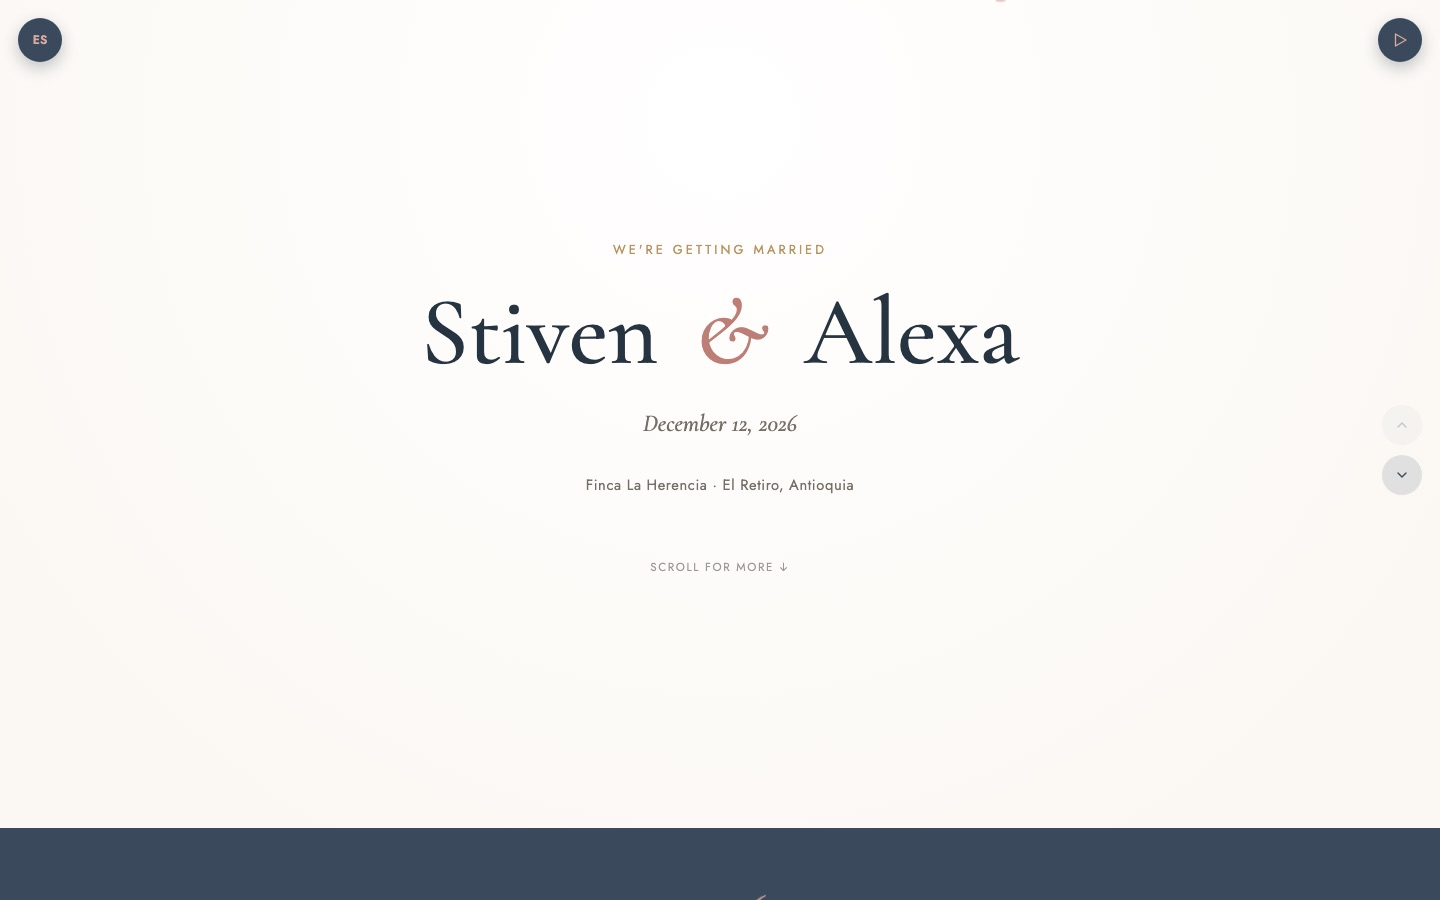
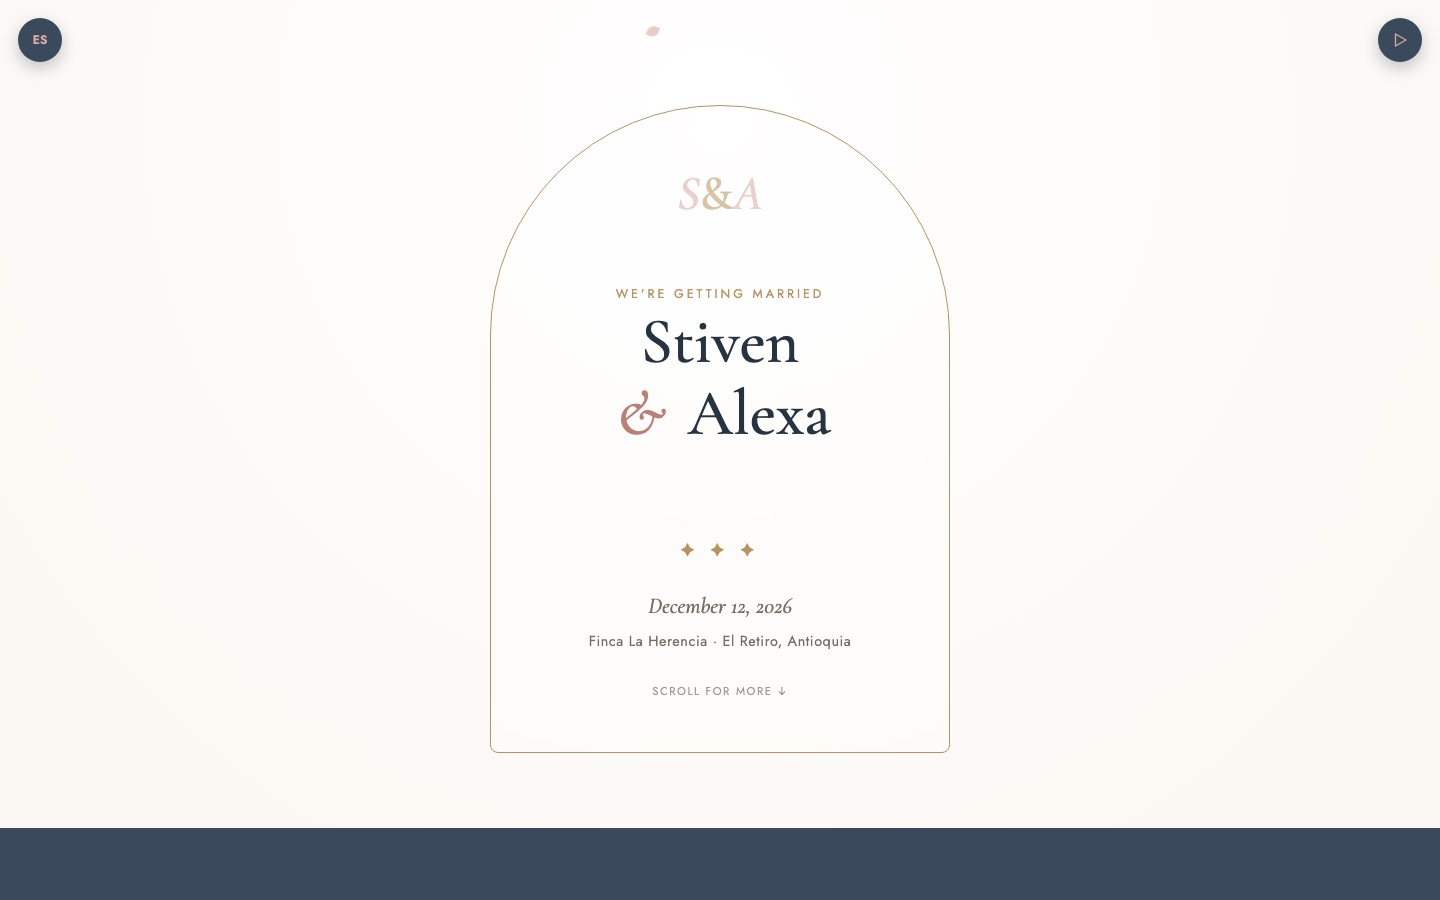
Update baby shower thumbnail to animated GIF, refresh wedding screenshot

diff --git a/web-dev.html b/web-dev.html
@@ -204,7 +204,7 @@
 
                     <!-- Emilia Baby Shower -->
                     <div class="project-card">
-                        <img src="images/projects/babyshower-sara-nicolas.jpg" alt="Emilia baby shower invitation homepage" class="project-thumb" loading="lazy">
+                        <img src="images/projects/babyshower-sara-nicolas.gif" alt="Emilia baby shower invitation, envelope opening animation" class="project-thumb" loading="lazy">
                         <div class="project-header">
                             <h3 class="project-title text-color" data-i18n="webdev-project6-title">Emilia: Baby Shower Invitation</h3>
                             <a href="https://babyshower-sara-nicolas.vercel.app" target="_blank" class="project-link" aria-label="View live site">
